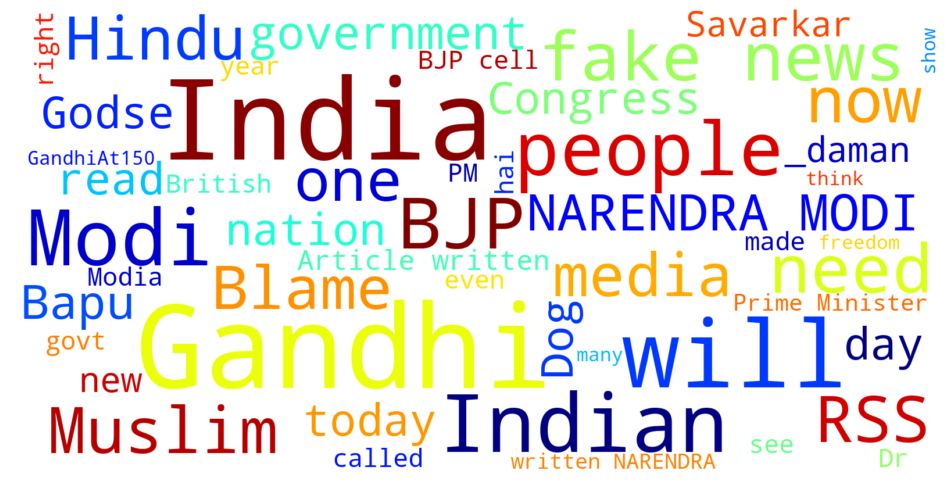
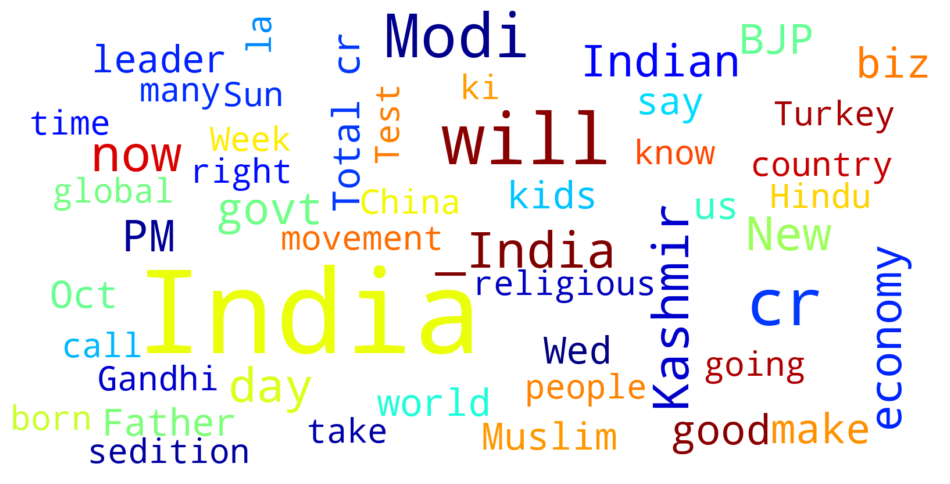
trying to add word cloud

diff --git a/tsa_app/templates/home.html b/tsa_app/templates/home.html
@@ -145,7 +145,7 @@
                     <a class="nav-item nav-link" id="nav-profile-tab" data-toggle="tab" href="#nav-profile" role="tab"
                         aria-controls="nav-profile" aria-selected="false">Chart</a>
                     <a class="nav-item nav-link" id="nav-contact-tab" data-toggle="tab" href="#nav-contact" role="tab"
-                        aria-controls="nav-contact" aria-selected="false">Word Cloud</a>
+                        aria-controls="nav-contact" aria-selected="false" onclick="fn_image()">Word Cloud</a>
                 </div>
             </nav>
 
@@ -175,13 +175,9 @@
                     </div>
                 </div>
 
-                <!-- <div class="tab-pane fade" id="nav-contact" role="tabpanel" aria-labelledby="nav-contact-tab">
-                    <div class="text-center" id="wc-div">
-                        <br>
-                        <br>
-                        
-                    </div>
-                </div> -->
+                <div class="tab-pane fade" id="nav-contact" role="tabpanel" aria-labelledby="nav-contact-tab">
+                    <div class="text-center" id="wc-div"></div>
+                </div>
 
             </div>
         </div>
@@ -206,6 +202,13 @@
                 .then(response => console.log('Success!', response))
                 .catch(error => console.error('Error!', error.message))
         })
+    </script>
+
+    <script>
+        function fn_image() {
+            $('#wc-div').empty();
+            $('#wc-div').append('<br><br><img id="wc-id" class="img-fluid" src="http://tweesen.herokuapp.com/static/images/wordcloud.png" style="max-width: 70%;">')
+        }
     </script>
 
 

diff --git a/tsa_app/static/js/home.js b/tsa_app/static/js/home.js
@@ -158,6 +158,8 @@ function getdata() {
             $('#btn-neg-id').empty();
             $('#btn-neu-id').empty();
 
+            $('#wc-div').empty();
+
             console.log("inside success");
 
             if (json['user not found'] == 'user not found') {
@@ -216,7 +218,7 @@ function getdata() {
                 $("#display-count").append(tt);
 
                 /* error */
-                $('#wc').append('<img id="wc-id" name="wcimg" class="img-fluid" src="static/images/wordcloud.png" style="max-width: 70%;">');
+               /*  $('#wc').append('<img id="wc-id" name="wcimg" class="img-fluid" src="static/images/wordcloud.png" style="max-width: 70%;">'); */
 
 
                 /* chart code */

diff --git a/tsa_app/static/css/home.css b/tsa_app/static/css/home.css
@@ -229,7 +229,7 @@ html {
 }
 
 .jumbotron-fluid {
-    background-image: linear-gradient( rgba(0, 0, 0, 0.5), rgba(0, 0, 0, 0.5)), url("https://source.unsplash.com/featured/?nature,mountain,wildlife");
+    background-image: linear-gradient( rgba(0, 0, 0, 0.5), rgba(0, 0, 0, 0.5)), url("https://source.unsplash.com/featured/?mountain,kashmir,himalaya,antarctica,norway,alps");
     background-position: center center;
     background-repeat: no-repeat;
     background-attachment: fixed;
